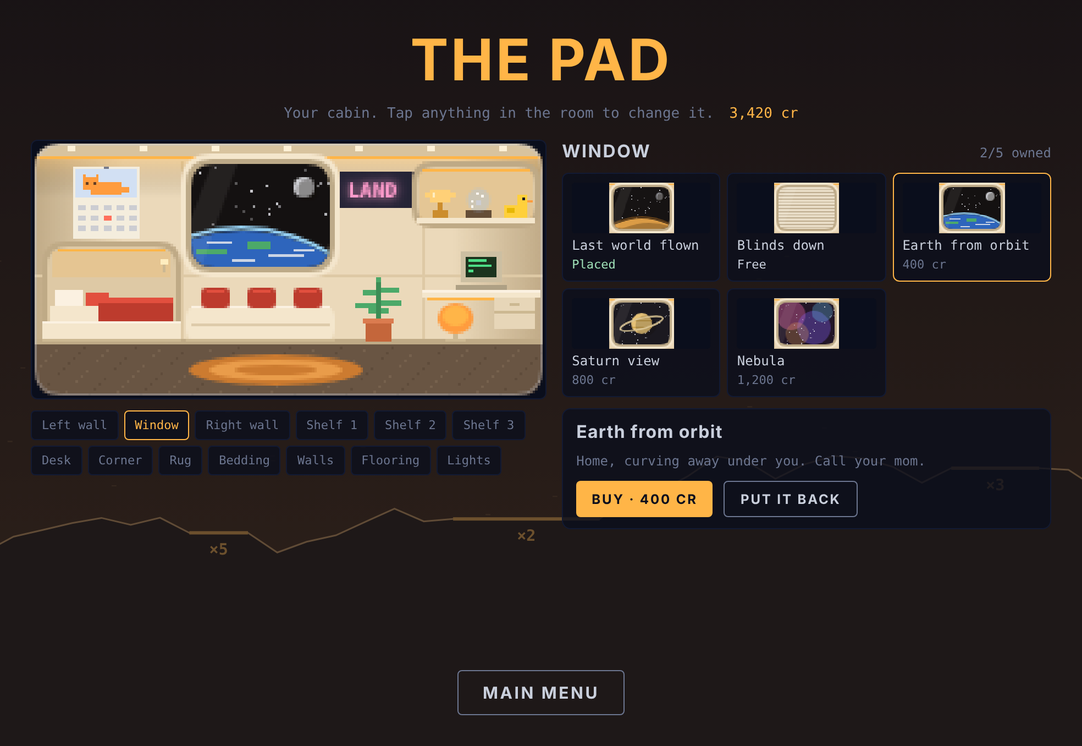
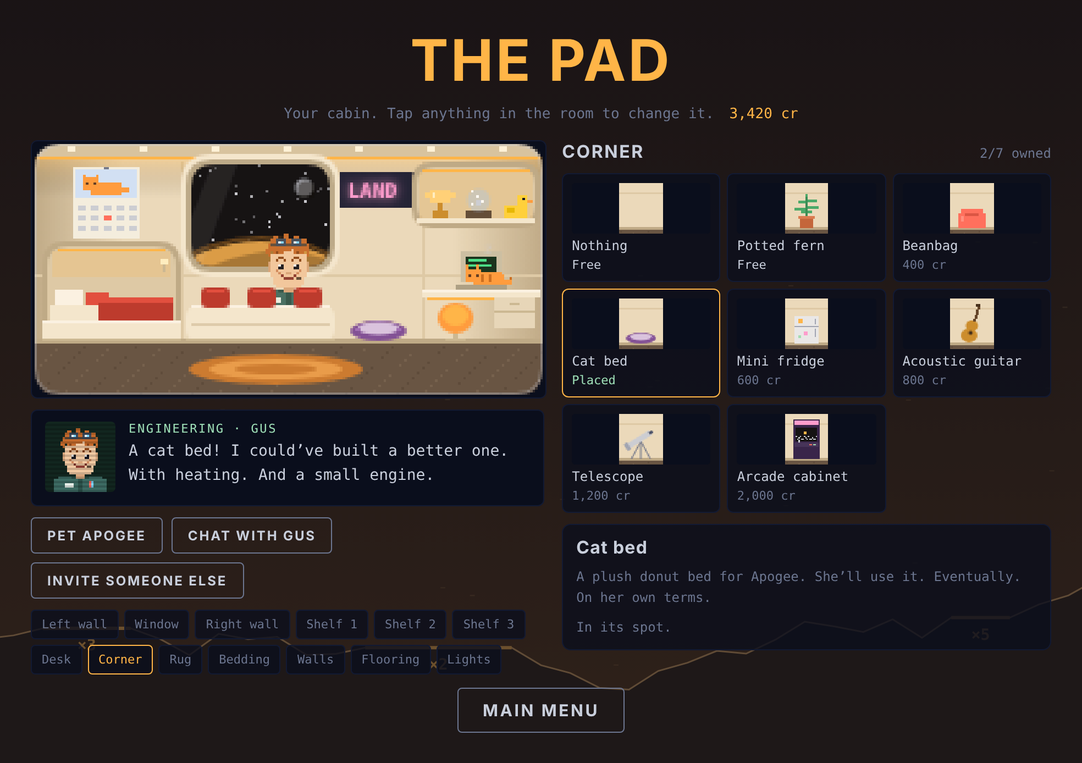
updated readme

diff --git a/README.md b/README.md
@@ -314,7 +314,7 @@ Open **The Pad** from the start screen to visit your own cabin, a cozy retro-fut
 | Right wall | A wall clock that keeps your real local time, your pilot license, a mission patch, a crew photo, a flickering neon LAND sign |
 | Shelf (3 spots) | Cactus, flight manuals, okayest-pilot mug, rubber duck, snow globe, model rocket, gold trophy |
 | Desk | Desk lamp, succulents, a retro computer, the crew radio, a scale model of your lander |
-| Corner | Potted fern, beanbag, mini fridge, guitar, telescope, an arcade cabinet that only plays Descent Systems |
+| Corner | Potted fern, beanbag, a cat bed for Apogee, mini fridge, guitar, telescope, an arcade cabinet that only plays Descent Systems |
 | Rug | Orange rug, striped runner, Saturn rug, cat face rug |
 | Bedding | Six colors for the bunk and the window-bench cushions: crimson, cloud cream, blush pink, tangerine, starry night and mint |
 | Walls | Ivory hull, moon white, blush, graphite, the classic navy bulkhead or a twinkling starfield |
@@ -323,7 +323,15 @@ Open **The Pad** from the start screen to visit your own cabin, a cozy retro-fut
 
 Free items are yours from the start. Everything else costs 100 to 2,000 credits. Tap an item to try it in the room first, then buy it or put it back. Each shelf item can only sit on one shelf at a time. Your room is saved in your browser along with everything else.
 
-<p align="center"><img src="media/pad.png" alt="The Pad: a cream spaceship cabin with amber light strips, a capsule bunk with red blankets, a window bench with red cushions under a big rounded window looking down on Earth, an Apogee calendar, a neon LAND sign, a backlit shelf with a trophy, snow globe and rubber duck, and a retro computer on a floating desk, with the window view picker beside it" width="640"></p>
+### Company
+
+The Pad isn't empty for long:
+
+- **Apogee** lets herself in on most visits and naps somewhere: on your bunk, the window bench, the rug, sunk into a beanbag, or flat across your keyboard. Tap her, or press **Pet Apogee**, to wake her up. Buy the **cat bed** and she'll use it most of the time, though she'll pretend she isn't impressed.
+- **The crew drop by.** About half the time someone is already sitting on your window bench when you walk in: Dottie, Gus, Wren once she's home, or Rex once you've rescued him. Press **Invite someone over** to knock on another door.
+- **They notice your decor.** Gus gets excited about the arcade cabinet and the disco ball, Dottie spots the mug she gave you and the red alert lighting, Wren recognizes her star chart, and Rex is delighted to find his own poster on your wall. If someone's visiting when you buy or place something, they react to it on the spot. Tap them, or press **Chat**, for another comment.
+
+<p align="center"><img src="media/pad.png" alt="The Pad: a cream spaceship cabin with amber light strips, Gus sitting on the window bench under a big rounded window, Apogee asleep on the retro computer keyboard, a new purple cat bed in the corner, and Gus saying he could have built a better cat bed with heating and a small engine" width="640"></p>
 
 ## Endless run
 
